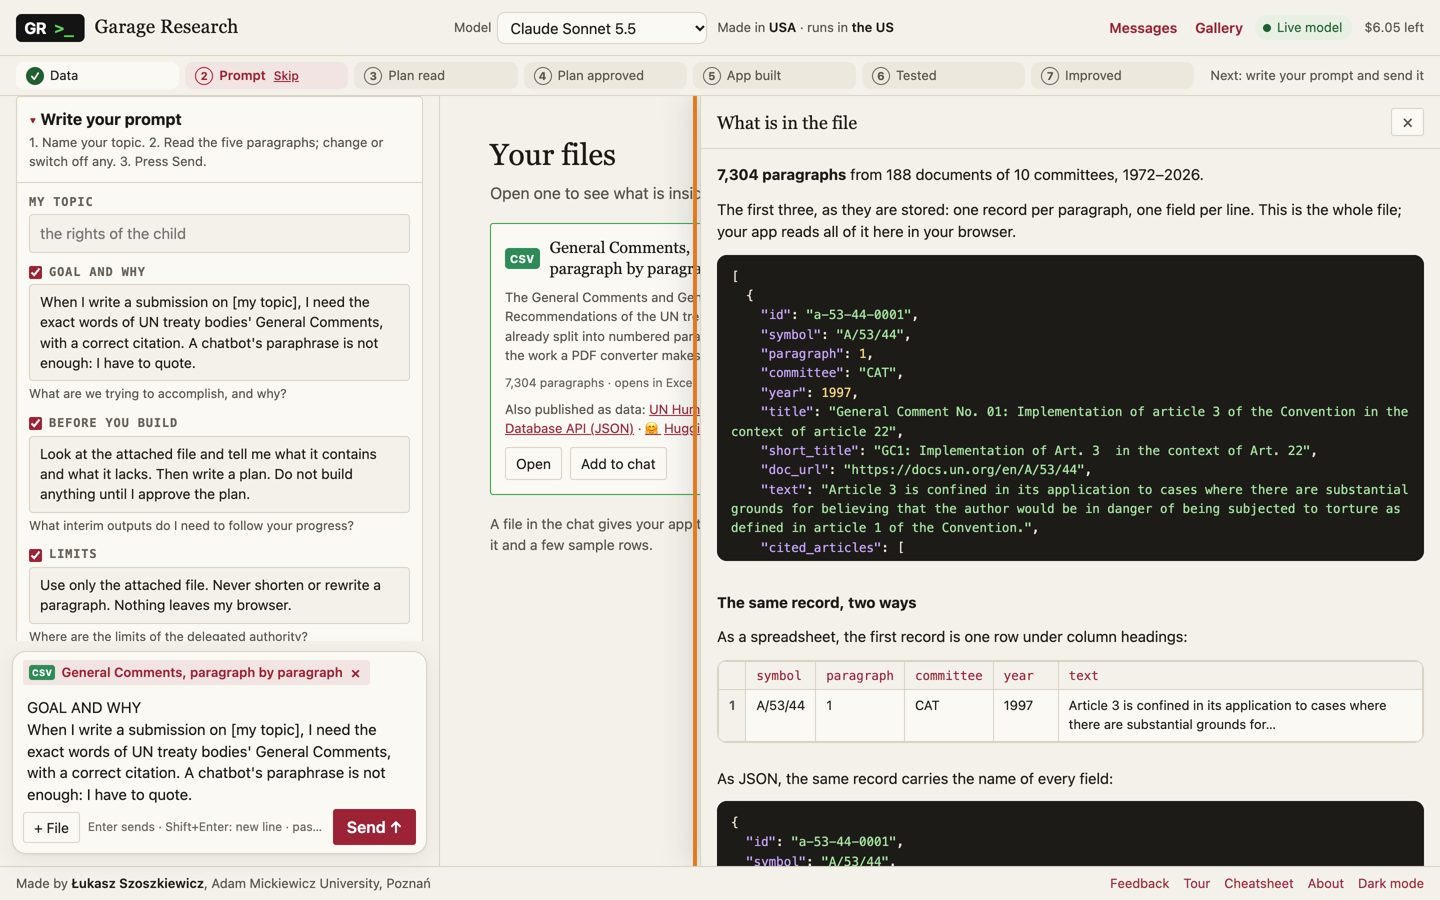
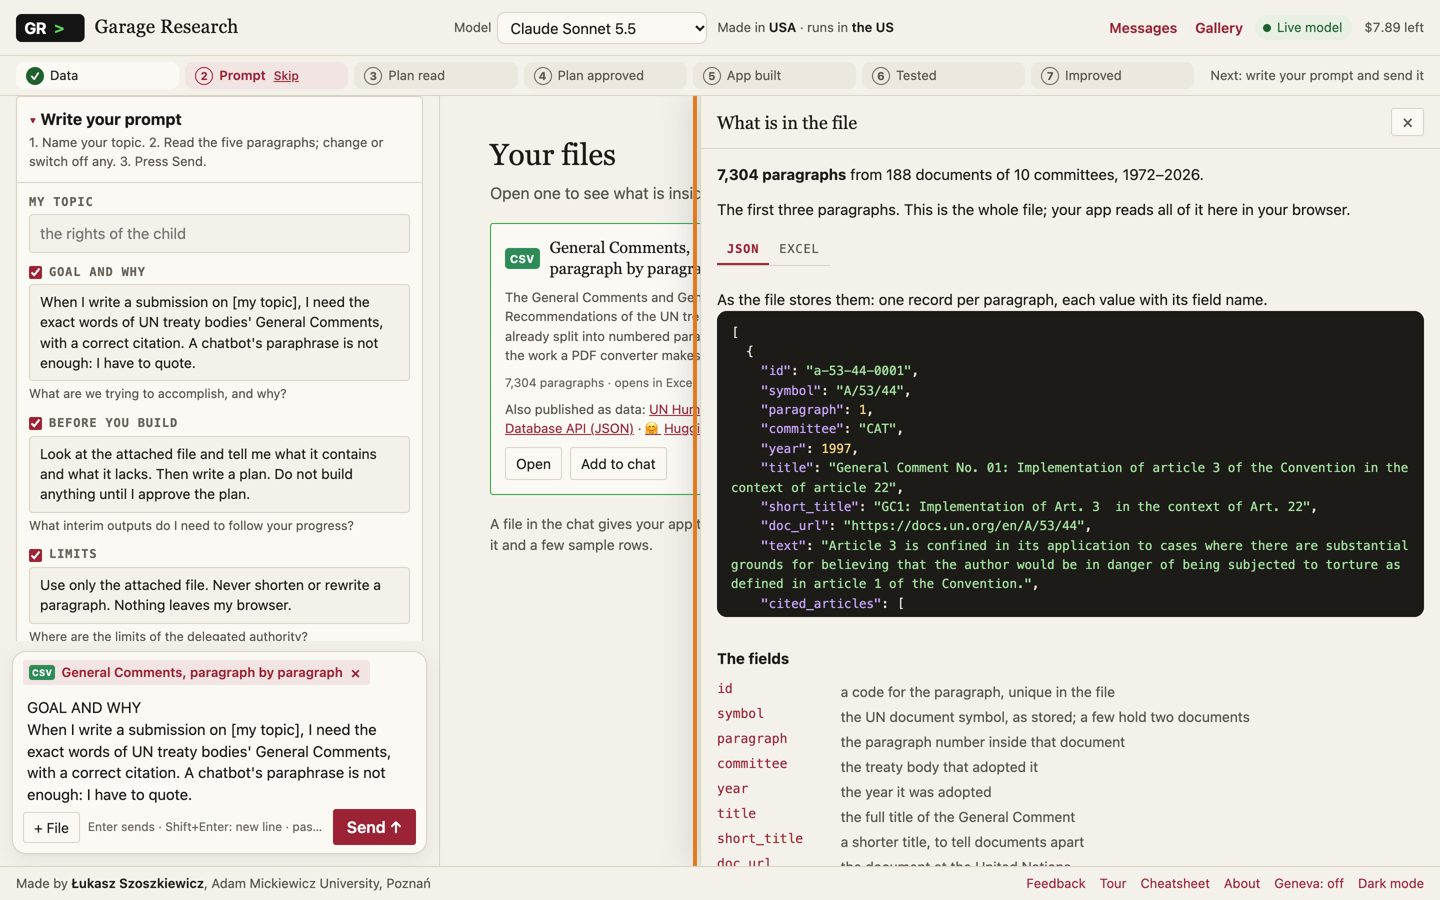
Data step: a JSON / Excel switch instead of the file sizes
"What is in the file" shows the first three records as JSON, as the
file stores them, and a switch shows the same three as a spreadsheet
(every field a column, long cells clipped as Excel shows them). The
section comparing the two forms and their sizes is gone. Screenshot 02
of the step-by-step page is retaken.

Changed region(s): [[0.5, 0.2178, 1.0, 0.9956]]

diff --git a/site/studio.js b/site/studio.js
@@ -4054,21 +4054,19 @@
 
   // "The same record, two ways": the first record as a spreadsheet row and as JSON, and the whole file's size in each,
   // counted here from the file in this browser (the CSV is the one "Download as CSV" gives)
-  function twoWays(key, d) {
-    const r = d.records, rec = r[0], cols = ['symbol', 'paragraph', 'committee', 'year', 'text'];
-    const cut = (t) => { t = String(t == null ? '' : t); return t.length > 90 ? t.slice(0, 90).trimEnd() + '…' : t; };
-    const bytes = (t) => new Blob([t]).size, mb = (n) => (n / 1e6).toFixed(1) + ' MB';
-    const csv = bytes(csvOf(key, d)), json = bytes(JSON.stringify(d));
-    return '<h4>The same record, two ways</h4>' +
-      '<p>As a spreadsheet, the first record is one row under column headings:</p>' +
-      `<div class="sheet-wrap"><table class="sheet"><thead><tr><th></th>${cols.map((c) => `<th>${esc(c)}</th>`).join('')}</tr></thead>` +
-      `<tbody><tr><th>1</th>${cols.map((c) => `<td>${esc(cut(rec[c]))}</td>`).join('')}</tr></tbody></table></div>` +
-      '<p>As JSON, the same record carries the name of every field:</p>' +
-      `<pre class="json-view">${jsonHtml(rec)}</pre>` +
-      `<table class="compare"><thead><tr><th></th><th>Spreadsheet (CSV)</th><th>JSON</th></tr></thead><tbody>` +
-      `<tr><th>Whole file</th><td>${mb(csv)}</td><td>${mb(json)}</td></tr>` +
-      `<tr><th>Holds</th><td>${fmt(r.length)} rows</td><td>${fmt(r.length)} records</td></tr></tbody></table>` +
-      '<p>The same content. A spreadsheet is for people: sort, filter, read. JSON is for programs: every value carries its field name, which is why the file is larger.</p>';
+  // the first records one way at a time, behind a switch: JSON, as the file stores them, or a spreadsheet, as Excel shows them
+  function insideViews(recs) {
+    const cols = Object.keys(recs[0]);
+    const cut = (t) => { t = Array.isArray(t) ? t.join('; ') : String(t == null ? '' : t); return t.length > 36 ? t.slice(0, 36).trimEnd() + '…' : t; };   // clipped, as Excel shows a long cell
+    return '<div class="seg inside-seg" role="tablist" aria-label="Show the records as">' +
+      '<button type="button" role="tab" data-v="json" aria-selected="true">JSON</button>' +
+      '<button type="button" role="tab" data-v="sheet" aria-selected="false">Excel</button></div>' +
+      '<div class="inside-view" data-v="json"><p>As the file stores them: one record per paragraph, each value with its field name.</p>' +
+      `<pre class="json-view">${jsonHtml(recs)}</pre></div>` +
+      '<div class="inside-view" data-v="sheet" hidden><p>As a spreadsheet: one row per paragraph, the field names once, as column headings.</p>' +
+      `<div class="sheet-wrap"><table class="sheet"><thead><tr><th></th>${cols.map((c) => `<th>${esc(c)}</th>`).join('')}</tr></thead><tbody>` +
+      recs.map((rec, i) => `<tr><th>${i + 1}</th>${cols.map((c) => `<td>${esc(cut(rec[c]))}</td>`).join('')}</tr>`).join('') +
+      '</tbody></table></div></div>';
   }
 
   async function openInside(key) {
@@ -4078,13 +4076,17 @@
     $('drawer').classList.add('inside');
     $('drawerBody').innerHTML =
       `<p><b>${esc(facts.count)} paragraphs</b> from ${esc(facts.documents)} documents of ${esc(facts.committees)} committees, ${esc(facts.years)}.</p>` +
-      `<p>The first three, as they are stored: one record per paragraph, one field per line. This is the whole file; your app reads all of it here in your browser.</p>` +
-      `<pre class="json-view">${jsonHtml(r.slice(0, 3))}</pre>` +
-      twoWays(key, d) +
+      `<p>The first three paragraphs. This is the whole file; your app reads all of it here in your browser.</p>` +
+      insideViews(r.slice(0, 3)) +
       `<h4>The fields</h4><dl class="fields">${FIELDS[key].map(([n, t]) => `<dt>${esc(n)}</dt><dd>${esc(t)}</dd>`).join('')}</dl>` +
       (f.from ? `<p class="from">Also published as data: ${f.from.map((l) => `<a href="${esc(l.url)}" target="_blank" rel="noopener">${l.icon ? `<span class="from-icon" aria-hidden="true">${esc(l.icon)}</span>` : ''}${esc(l.label)}</a>`).join(' · ')}</p>` : '') +
       `<div class="row"><button type="button" class="ghost" id="insideCsv">Download as CSV</button></div>`;
     $('insideCsv').onclick = () => downloadCsv(key);
+    const tabs = $('drawerBody').querySelectorAll('.inside-seg button');
+    tabs.forEach((b) => { b.onclick = () => {
+      tabs.forEach((t) => t.setAttribute('aria-selected', String(t === b)));
+      $('drawerBody').querySelectorAll('.inside-view').forEach((v) => { v.hidden = v.dataset.v !== b.dataset.v; });
+    }; });
   }
 
   /* ---------- the app, or the code behind it ---------- */

diff --git a/site/studio.css b/site/studio.css
@@ -344,15 +344,14 @@ code, kbd, samp, pre { font-family: var(--mono); }
 .drawer.inside .json-view { flex: none; max-height: 34vh; min-height: 8em; }   /* in a column of flex items it would shrink to a line */
 /* "The same record, two ways": a spreadsheet row and the size of the file in each form */
 .sheet-wrap { flex: none; margin: 0 0 12px; overflow-x: auto; border: 1px solid var(--line); border-radius: 10px; background: var(--surface); }
-.sheet, .compare { border-collapse: collapse; font-size: 13px; }
+.sheet { border-collapse: collapse; font-size: 13px; }
 .sheet { width: 100%; min-width: 640px; }
-.sheet th, .sheet td, .compare th, .compare td { padding: 6px 10px; border: 1px solid var(--line); text-align: left; vertical-align: top; }
-.sheet thead th, .compare thead th { background: var(--panel); font: 12.5px var(--mono); color: var(--accent); }
-.sheet tbody th, .compare tbody th { background: var(--panel); font-weight: 600; color: var(--muted); }
-.sheet td { min-width: 5em; }
-.sheet td:last-child { min-width: 16em; }
-.compare { flex: none; margin: 0 0 10px; }
-.compare td { font-variant-numeric: tabular-nums; }
+.sheet th, .sheet td { padding: 6px 10px; border: 1px solid var(--line); text-align: left; vertical-align: top; }
+.sheet thead th { background: var(--panel); font: 12.5px var(--mono); color: var(--accent); }
+.sheet tbody th { background: var(--panel); font-weight: 600; color: var(--muted); }
+.sheet td { white-space: nowrap; }   /* one line per cell, as in Excel: the table scrolls sideways */
+.inside-seg { margin: 2px 0 10px; }
+.inside-view { flex: none; }
 .fields { display: grid; grid-template-columns: max-content 1fr; gap: 4px 14px; margin: 0; font-size: 14px; }
 .fields dt { font: 13px var(--mono); color: var(--accent); }
 .fields dd { margin: 0; color: var(--muted); }

diff --git a/tests/e2e/test_studio.py b/tests/e2e/test_studio.py
@@ -588,26 +588,31 @@ def test_recorded_mode_works_with_the_extras_on(base_url, browser):
     ctx.close()
 
 
-def test_geneva_file_drawer_shows_the_record_two_ways(base_url, browser):
-    """"What is in the file" shows the first record as a spreadsheet row and as JSON, and counts the whole file in each form
-    from the data in the browser: the JSON is the larger, and both hold one row or record per paragraph."""
+def test_geneva_file_drawer_switches_json_and_excel(base_url, browser):
+    """"What is in the file" shows the first three records as JSON, as the file stores them; a switch shows the same three as
+    a spreadsheet, every field a column, and back. No file sizes."""
     ctx = browser.new_context(viewport={"width": 1440, "height": 900})
     page = ctx.new_page()
     page.goto(base_url + G1)
     page.wait_for_selector("#dataLook", timeout=20000)
     page.click("#dataLook")
-    page.wait_for_selector("#drawerBody .sheet", timeout=20000)
+    page.wait_for_selector("#drawerBody .inside-seg", timeout=20000)
     gc = json.loads((SITE / "data/gc.json").read_text())["records"]
-    assert page.locator("#drawerBody h4").first.inner_text() == "The same record, two ways"
-    assert page.locator("#drawerBody .sheet thead th").all_inner_texts() == ["", "symbol", "paragraph", "committee", "year", "text"]
-    row = page.locator("#drawerBody .sheet tbody td").all_inner_texts()
-    assert row[:4] == [gc[0]["symbol"], str(gc[0]["paragraph"]), gc[0]["committee"], str(gc[0]["year"])] and row[4].startswith(gc[0]["text"][:40])
-    assert page.locator("#drawerBody pre.json-view").count() == 2 and '"symbol"' in page.locator("#drawerBody pre.json-view").nth(1).inner_text()
-    cells = page.locator("#drawerBody .compare tbody td").all_inner_texts()
-    mb = [float(c.split()[0]) for c in (cells[0], cells[1])]
-    assert all(re.fullmatch(r"\d+\.\d MB", c) for c in (cells[0], cells[1])) and mb[1] > mb[0] > 0, cells
-    assert cells[2:] == [f"{len(gc):,} rows", f"{len(gc):,} records"]
-    assert "every value carries its field name" in page.inner_text("#drawerBody")
+    tab = lambda v: page.get_attribute(f"#drawerBody .inside-seg [data-v={v}]", "aria-selected")
+    assert page.locator("#drawerBody .inside-seg button").all_text_contents() == ["JSON", "Excel"] and tab("json") == "true"
+    assert page.is_visible("#drawerBody pre.json-view") and not page.is_visible("#drawerBody .sheet")
+    assert page.locator("#drawerBody pre.json-view").inner_text().count('"symbol"') == 3
+    assert " MB" not in page.inner_text("#drawerBody") and page.locator("#drawerBody .compare").count() == 0
+    page.click("#drawerBody .inside-seg [data-v=sheet]")
+    assert tab("sheet") == "true" and tab("json") == "false"
+    assert page.is_visible("#drawerBody .sheet") and not page.is_visible("#drawerBody pre.json-view")
+    assert page.locator("#drawerBody .sheet thead th").all_inner_texts() == [""] + list(gc[0])
+    assert page.locator("#drawerBody .sheet tbody tr").count() == 3
+    row = dict(zip(gc[0], page.locator("#drawerBody .sheet tbody tr").first.locator("td").all_inner_texts()))
+    assert [row["symbol"], row["paragraph"], row["committee"], row["year"]] == [gc[0]["symbol"], str(gc[0]["paragraph"]), gc[0]["committee"], str(gc[0]["year"])]
+    assert row["text"].startswith(gc[0]["text"][:30]) and row["text"].endswith("…")   # clipped, as Excel shows a long cell
+    page.click("#drawerBody .inside-seg [data-v=json]")
+    assert page.is_visible("#drawerBody pre.json-view") and not page.is_visible("#drawerBody .sheet")
     ctx.close()
 
 
